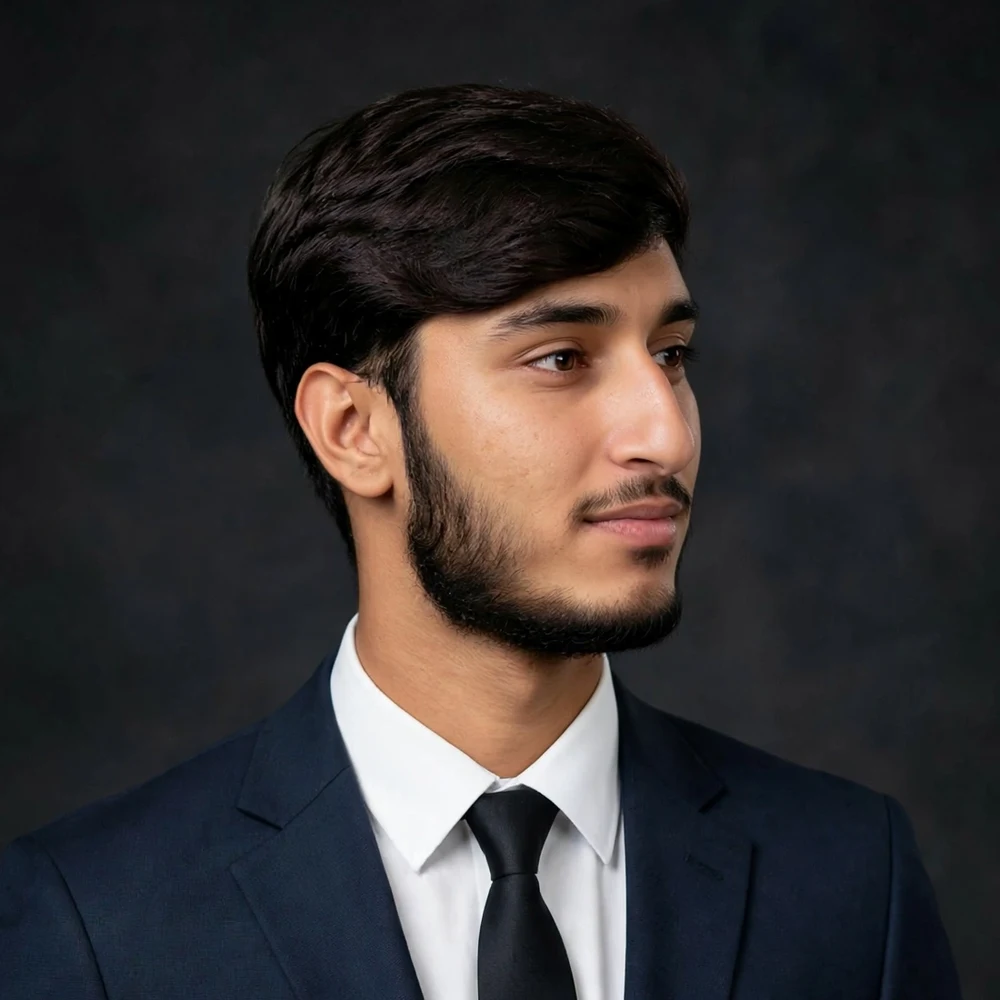
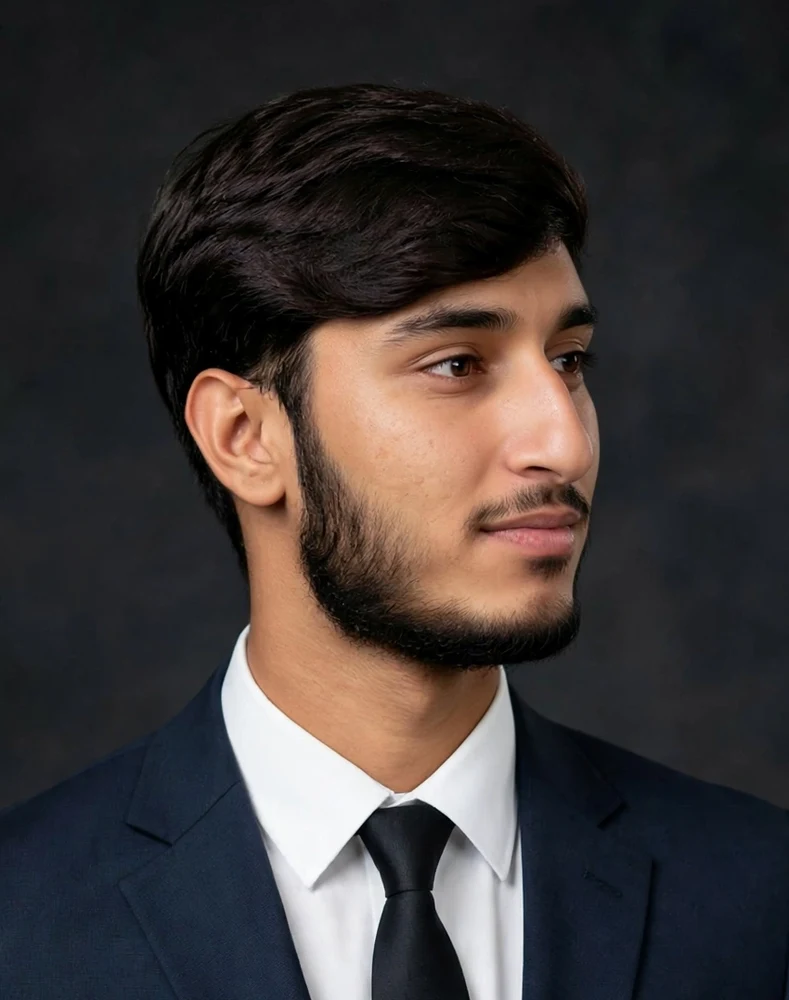
Bundle food images with the app (fix missing photos on live demo)

diff --git a/style.css b/style.css
@@ -261,7 +261,7 @@ body::after {
 .about-img-frame {
   position: relative; width: min(360px, 80vw); border-radius: var(--radius);
 }
-.about-img-frame img { border-radius: var(--radius); aspect-ratio: 1/1; object-fit: cover; object-position: top; width: 100%; display: block; }
+.about-img-frame img { border-radius: var(--radius); aspect-ratio: 3/3.8; object-fit: cover; object-position: top; width: 100%; display: block; }
 .about-exp-badge {
   position: absolute; bottom: -18px; right: -14px;
   background: linear-gradient(135deg, var(--accent), var(--accent-2));
